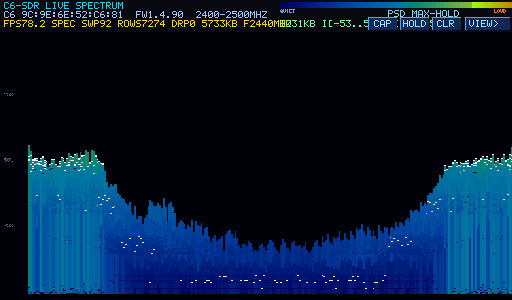
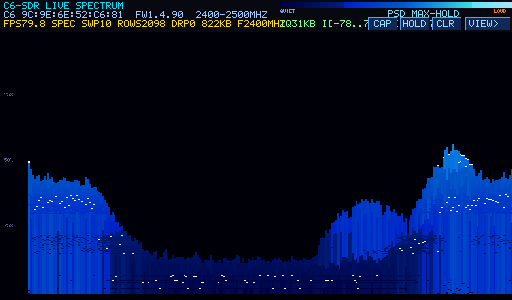
c6_sdr app: switch palette to ice ramp (blue -> cyan -> white)
Replaces the amber->red hot end of db_rgb with pale-cyan -> white —
matches the cooler look of the RGB565 panel captures. Shared by SPEC,
PANO, WFL and the IQ phosphor; SPEC capture refreshed.

Generated with [Devin](https://devin.ai)

diff --git a/src/main.cpp b/src/main.cpp
@@ -336,18 +336,19 @@ static void view_color(uint8_t *r, uint8_t *g, uint8_t *b)
 }
 
 /* dB-like bin code -> RGB888 heat ramp (blue->cyan->green->amber->red) */
+/* ice ramp: deep blue -> blue -> cyan -> white (strong = bright) */
 static void db_rgb(uint8_t v, uint8_t *r, uint8_t *g, uint8_t *b)
 {
 	uint32_t x = v; /* 0..255 */
 
-	if (x < 64) {        /* deep blue -> blue */
-		*r = 0; *g = x; *b = 96 + x;
+	if (x < 64) {         /* near-black -> deep blue */
+		*r = 0; *g = x / 2; *b = 64 + x;
 	} else if (x < 128) { /* blue -> cyan */
-		*r = 0; *g = 64 + (x - 64); *b = 160;
-	} else if (x < 192) { /* cyan -> green/amber */
-		*r = (x - 128) * 2; *g = 128 + (x - 128); *b = 128 - (x - 128);
-	} else {             /* amber -> red */
-		*r = 160 + (x - 192); *g = 255 - (x - 192) * 3; *b = 0;
+		*r = 0; *g = 32 + (x - 64); *b = 200;
+	} else if (x < 192) { /* cyan -> pale cyan */
+		*r = (x - 128); *g = 96 + (x - 128) * 2; *b = 230;
+	} else {              /* pale -> white */
+		*r = 96 + (x - 192) * 2; *g = 230; *b = 255;
 	}
 }
 
